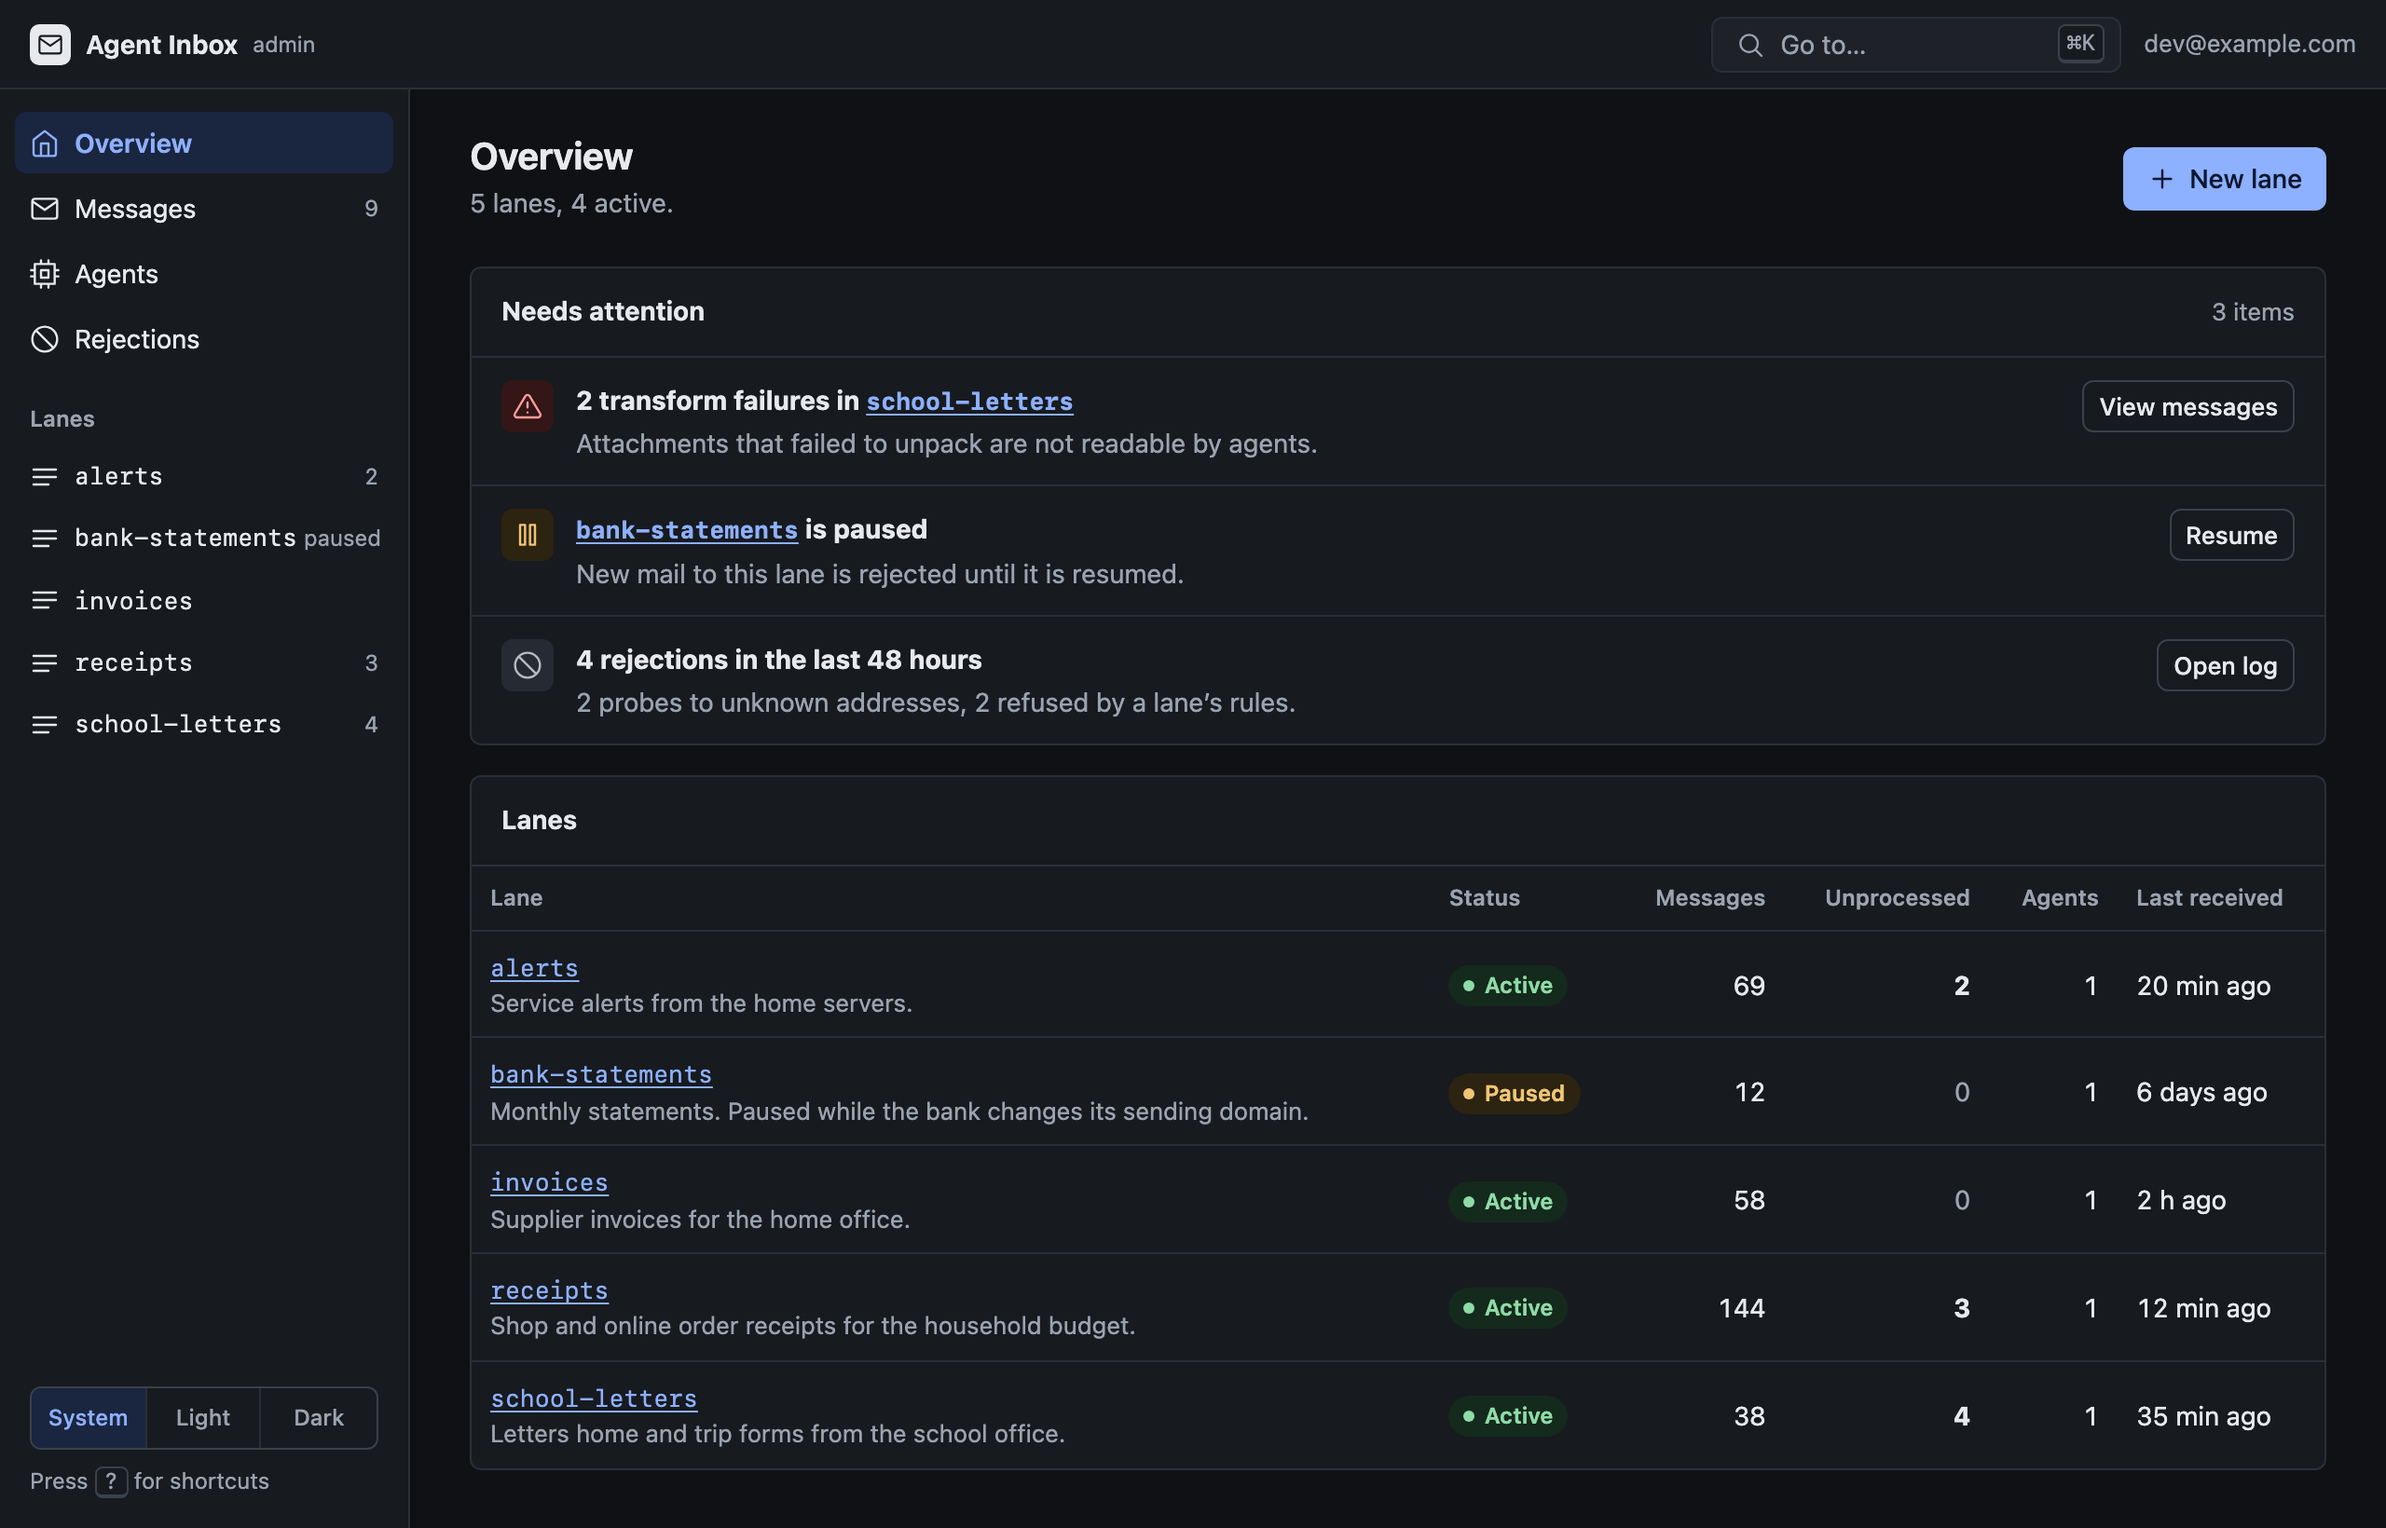
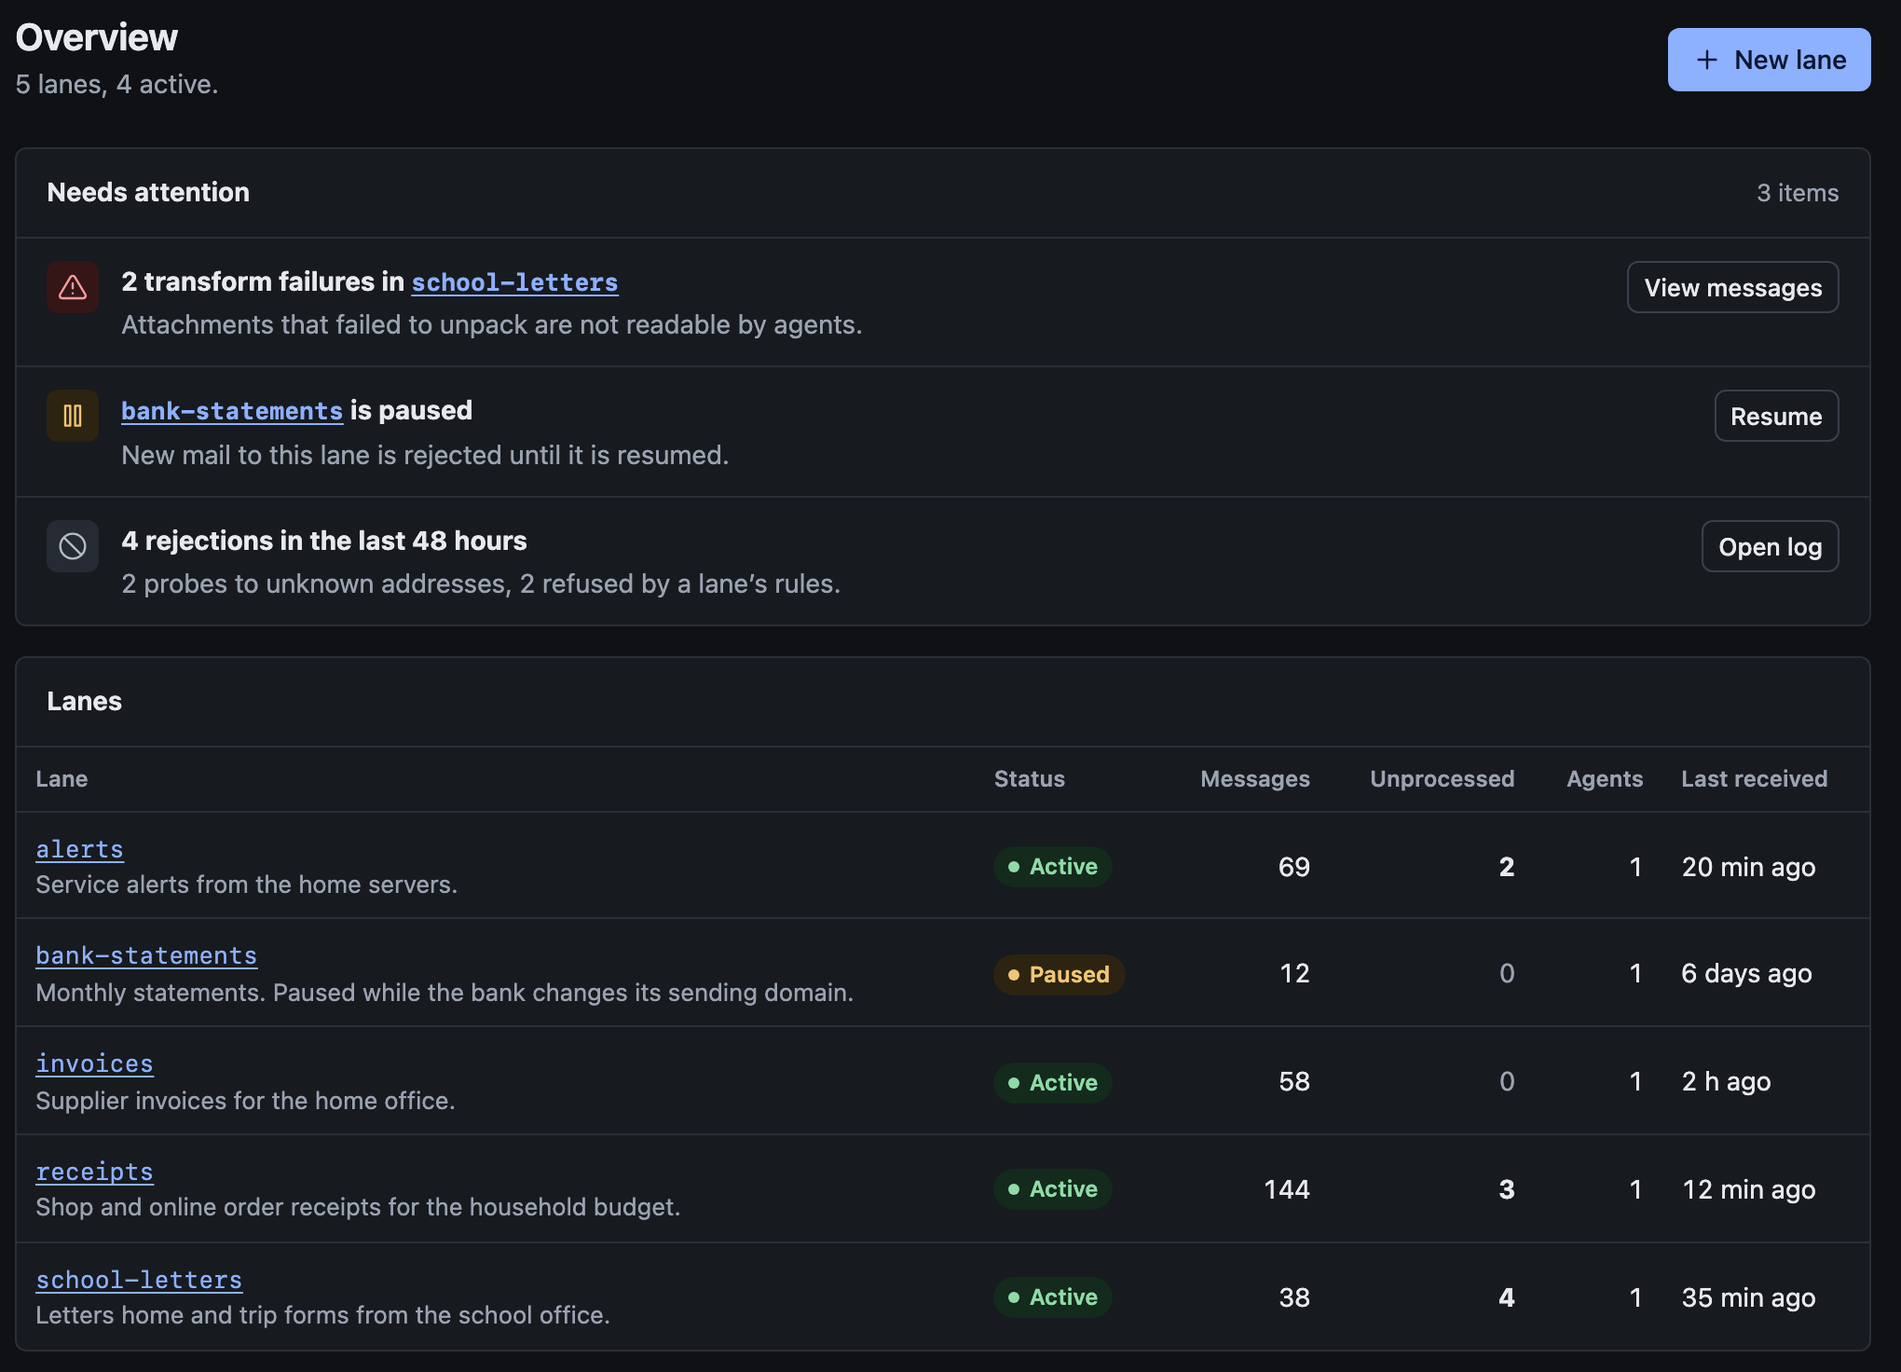
fix(site): crop the admin screenshots to the content so they read larger
The screenshots script takes a clip per picture. The website column is narrower
than the 1280px page, so cropping off the sidebar and header makes the text
about a third larger as displayed.

diff --git a/scripts/screenshots.ts b/scripts/screenshots.ts
@@ -25,15 +25,18 @@ interface Shot {
   prepare?: (page: Page) => Promise<void>;
   /** Something that is only on screen once the page is ready. */
   ready: string;
+  /** The part of the page to keep, in CSS pixels. The website column is narrower than the page, so a crop reads larger. */
+  clip: { x: number; y: number; width: number; height: number };
 }
 
 const SHOTS: Shot[] = [
-  { name: "overview", hash: "#overview", height: 820, ready: "text=Needs attention" },
+  { name: "overview", hash: "#overview", height: 820, ready: "text=Needs attention", clip: { x: 244, y: 64, width: 1020, height: 736 } },
   {
     name: "message",
     hash: "#messages/01DEV0000000000000000MSG04",
     height: 900,
     ready: "text=Body not loaded",
+    clip: { x: 244, y: 64, width: 1020, height: 590 },
     // The body is only fetched on request, so the picture shows it being asked for.
     prepare: async (page) => {
       await page.getByRole("button", { name: "Show body" }).click();
@@ -102,7 +105,7 @@ try {
         await page.waitForLoadState("networkidle");
         await shot.prepare?.(page);
         const path = `${OUT}/${shot.name}-${scheme}.webp`;
-        const encoded = spawnSync("cwebp", ["-quiet", "-lossless", "-z", "9", "-o", path, "--", "-"], { input: await page.screenshot() });
+        const encoded = spawnSync("cwebp", ["-quiet", "-lossless", "-z", "9", "-o", path, "--", "-"], { input: await page.screenshot({ clip: shot.clip }) });
         if (encoded.status !== 0) throw new Error(`cwebp failed: ${encoded.stderr}`);
         console.log(`wrote ${path}`);
         await page.close();
